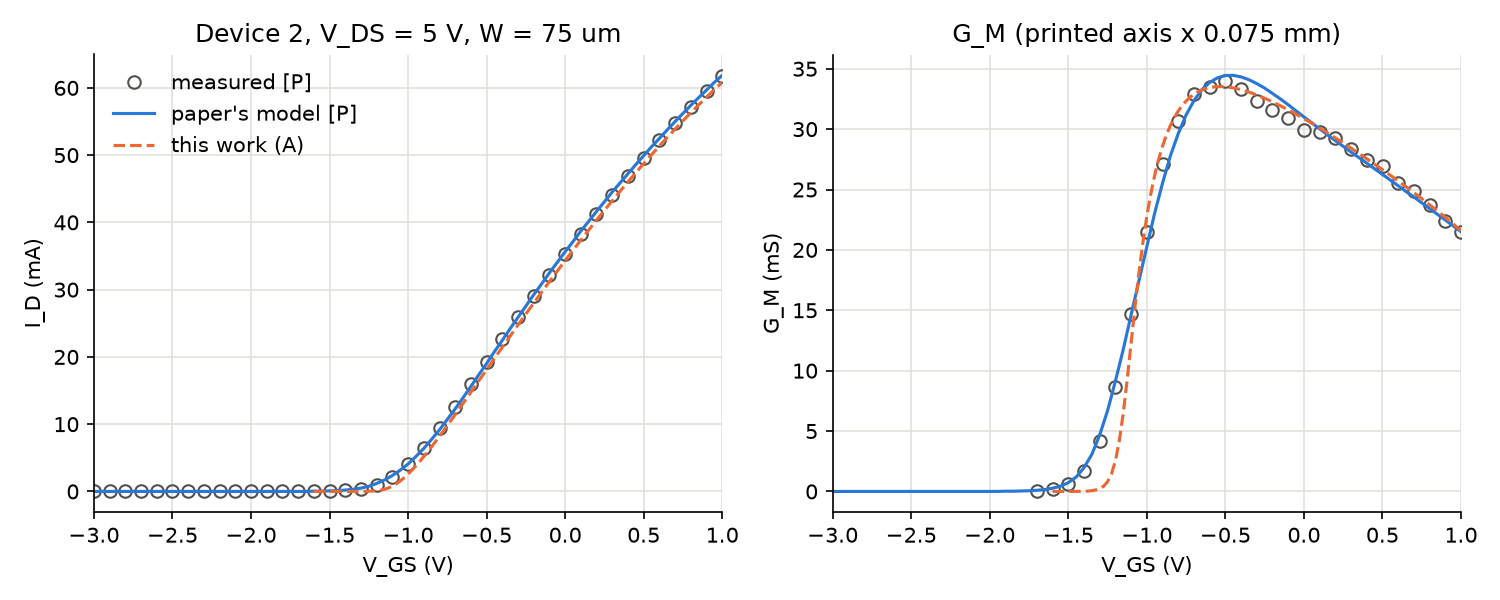
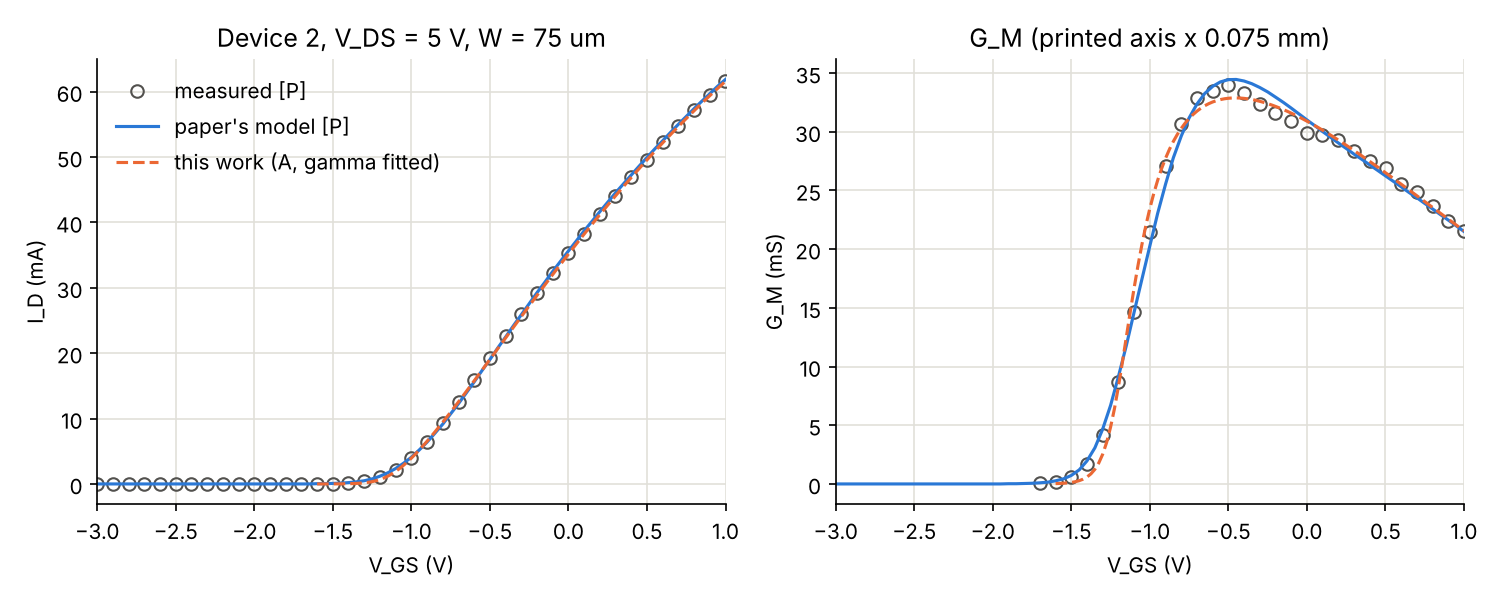
Step 8c: gamma of Eq. (9) in the numerical charge (m = 2/(3 gamma)); Device 2 refit; README beta/delta

diff --git a/fit2.py b/fit2.py
@@ -1,7 +1,8 @@
 """
-fit2.py - Step 8b: fit Device 2 (short-channel PolFET) to the measured points of the paper's Fig. 6(b).
+fit2.py - Step 8b-c: fit Device 2 (short-channel PolFET) to the measured points of the paper's Fig. 6(b).
 Run:  GAN_DEVICE=2 python3 fit2.py        (device2.py supplies W, L, C_g'', V_OFF, mobility, access geometry)
-Same method and same five fitted parameters as Device 1 (fit.py, Step 5b); the paper gives no values for either device.
+Same method and the same five fitted parameters as Device 1 (fit.py, Step 5b), plus gamma of Eq. (9) (Step 8c, option 1,
+decided 2026-11-17): it sets the subthreshold slope of the numerical charge (gate.n_exact). The paper gives no values.
 Fitted data: Fig. 6(b) I_D and G_M at V_DS = 5 V [P]. Fig. 7(b) is used as a check, not fitted, because its V_GS
 labels are not printed (printed item 12): it is scored with both label sets of fig7b_measured.csv.
 Saves params_device2.json.
@@ -38,7 +39,8 @@ FREE = [("u0",    U0_ACC,         100e-4, 3000e-4, 0.05, "m^2/Vs", "U0, access m
         ("vsat0", cur.VSAT0,      2e4,    1e6,     1e5,  "m/s",    "V_SAT0 [P]"),
         ("th2",   cur.THETA_SAT2, 0.01,   2.0,     0.3,  "-",      "theta_SAT2 [P]"),
         ("delta", cur.DELTA_DS,   1.0,    10.0,    1.0,  "-",      "delta in V_DS,eff [P, no value]"),
-        ("beta",  2.0,            0.5,    20.0,    1.0,  "-",      "beta in access R [T Eq. 5.1, no value]")]
+        ("beta",  2.0,            0.5,    20.0,    1.0,  "-",      "beta in access R [T Eq. 5.1, no value]"),
+        ("gamma", 0.55,           0.2,    1.0,     0.1,  "-",      "gamma, Eq. (9) [P, no value]")]
 NAMES = [f[0] for f in FREE]
 FIXED = {"vsat_acc": 1.8e5,     # m/s [TCAD, GaN.par saturation velocity], as Device 1
          "mu_a": 0.0, "theta_sat": 0.0}          # as Device 1 (Step 5b)
@@ -96,24 +98,26 @@ if __name__ == "__main__":
     sol = run_fit(p0)
     print("fitted: rms I_D = {:.2f} mA, G_M = {:.2f} mS".format(*rms(sol.x)), f"  ({time.time() - t0:.0f} s)")
     print("paper's model line on the same points: rms I_D = {:.2f} mA, G_M = {:.2f} mS".format(*paper_rms()))
-    sol2 = run_fit([0.05, 3e5, 0.1, 6.0, 4.0])
+    sol2 = run_fit([0.05, 3e5, 0.1, 6.0, 4.0, 0.4])
     print()
     print(f"{'parameter':36s}{'start':>11s}{'fitted':>12s}{'other start':>14s}  unit")
     for (name, start, lo, hi, scale, unit, meaning), v, v2 in zip(FREE, sol.x, sol2.x):
         note = "  <- at its bound" if min(v - lo, hi - v) < 1e-3 * scale else ""
         print(f"{meaning:36s}{start:11.4g}{v:12.4g}{v2:14.4g}  {unit}{note}")
     Rs0, Rd0 = r_access(0.0, L_SG, u0=sol.x[0]), r_access(0.0, L_GD, u0=sol.x[0])
+    print(f"subthreshold slope from gamma: {1000 * np.log(10) * cur.PHIT / sol.x[5]:.0f} mV/dec")
     print(f"R_S0 = {Rs0:.2f} ohm ({Rs0 * W_MM:.2f} ohm.mm), R_D0 = {Rd0:.2f} ohm ({Rd0 * W_MM:.2f} ohm.mm)")
     print()
     print(f"Fig. 7(b) check ({len(out7)} points, not fitted): rms {rms_out(sol.x, 0):.2f} mA with V_GS = -1.6:0.2:1.0 V, "
           f"{rms_out(sol.x, 1):.2f} mA with V_GS from Fig. 6(b)")
     print()
     print(" V_GS   I_D model  measured (mA)    G_M model  measured (mS)")
-    for v in [-1.2, -0.8, -0.4, 0.0, 0.4, 0.8, 1.0]:
+    for v in [-1.4, -1.2, -1.0, -0.8, -0.4, 0.0, 0.4, 0.8, 1.0]:
         print(f"{v:5.1f} {model_id(sol.x, v, 5.0):9.2f} {np.interp(v, id6[:, 0], id6[:, 1]):9.2f}"
               f"      {model_gm(sol.x, v):9.2f} {np.interp(v, gm6[:, 0], gm6[:, 1]):9.2f}")
-    result = {"source": "fit2.py, Step 8b: least squares to the measured points of Nazir et al. 2025 Fig. 6(b)",
+    result = {"source": "fit2.py, Step 8c: least squares to the measured points of Nazir et al. 2025 Fig. 6(b)",
               "fitted [CALIBRATE]": dict(zip(NAMES, map(float, sol.x))),
+              "gamma_placement": "m = 2/(3 gamma) on phi_t eta_F in the gate line of the numerical charge [DEVIATION, Step 8c]",
               "fixed": {**FIXED, "v_off": d2.V_OFF, "mu_lf": d2.MU_LF, "th1": cur.THETA_SAT1, "n_max": cur.N_MAX,
                         "mu_b": cur.MU_B, "n_acc_cm2": N_ACC, "l_sg": L_SG, "l_gd": L_GD, "cg_form": "eps/(2d+t) [P]"},
               "rms": {"fig6b_ID_mA": float(rms(sol.x)[0]), "fig6b_gM_mS": float(rms(sol.x)[1]),

diff --git a/current.py b/current.py
@@ -44,24 +44,28 @@ CHARGE = "exact"                # "exact": numerical solution of the two charge 
 V_TABLE = np.arange(-4.5, 4.0 + 1e-9, 0.01)   # V_GS grid for the exact-n table, 10 mV steps
 
 
+GAMMA_EX = getattr(d1, "GAMMA_EX", None)   # Step 8c: gamma of Eq. (9) in the numerical charge; None = m 1 (Device 1)
+
+
 @lru_cache(maxsize=8)
-def n_exact_spline(v_off):
+def n_exact_spline(v_off, gamma=None):
     """Solve the exact n once on the V_TABLE grid, then join the points with a quintic spline of log(n)
     [de Boor 1978]. Quintic (not cubic) keeps the third derivative continuous, which G_M3 needs.
     lru_cache keeps the result, so the slow root finding runs only once for each V_OFF."""
-    logn = np.log([n_exact(v, v_off, d1.U)[0] for v in V_TABLE])
+    logn = np.log([n_exact(v, v_off, d1.U, gamma)[0] for v in V_TABLE])
     return make_interp_spline(V_TABLE, logn, k=5)
 
 
-def n_channel(V_GS, v_off=V_OFF_TCADP, charge=CHARGE):
+def n_channel(V_GS, v_off=V_OFF_TCADP, charge=CHARGE, gamma=GAMMA_EX):
     """Channel sheet density in cm^-2 that feeds Eq. (17)."""
     if charge == "exact":
-        return np.exp(n_exact_spline(float(v_off))(V_GS))
+        return np.exp(n_exact_spline(float(v_off), None if gamma is None else float(gamma))(V_GS))
     return np.maximum(n_total(V_GS, v_off=v_off, u=d1.U), N_FLOOR)
 
 
 def bias_state(V_GS, V_DS, v_off=V_OFF_TCADP, printed=False, charge=CHARGE, mu_lf=MU_LF, mu_a=MU_A, mu_b=MU_B,
-               theta_sat=THETA_SAT, vsat0=VSAT0, th1=THETA_SAT1, th2=THETA_SAT2, n_max=N_MAX, delta=DELTA_DS):
+               theta_sat=THETA_SAT, vsat0=VSAT0, th1=THETA_SAT1, th2=THETA_SAT2, n_max=N_MAX, delta=DELTA_DS,
+               gamma=GAMMA_EX):
     """Every intermediate quantity of Eq. (17) at one intrinsic bias, as a dict:
     Vg0, Vq (= q n / C_g''), EF, Vdsat, Vdeff, Vm in V; n in cm^-2; mu_eff in m^2/Vs; I in A.
     printed=True  : V_DSAT uses V_g0, exactly as printed (breaks below V_OFF, where V_g0 < 0)
@@ -69,7 +73,7 @@ def bias_state(V_GS, V_DS, v_off=V_OFF_TCADP, printed=False, charge=CHARGE, mu_l
     The channel potentials of Sec. II-C are V_ch,s = E_F and V_ch,d = E_F + V_DS,eff: then
     V_m = (V_ch,s + V_ch,d)/2 is the same V_m as in Eq. (17) [P, both define V_m] (used by terminal_charges.py)."""
     Vg0 = V_GS - v_off
-    n = n_channel(V_GS, v_off, charge)                            # cm^-2
+    n = n_channel(V_GS, v_off, charge, gamma)                     # cm^-2
     Vq = n / d1.U                                                 # V, q n / C_g'': channel charge as a voltage
     EF = Vg0 - Vq                                                 # V, E_F = V_g0 - q n / C_g''  [P]
 

diff --git a/gate.py b/gate.py
@@ -21,13 +21,18 @@ CG = EPS_R * EPS0 / (2 * D_ALGAN + T_GRADE)      # F/cm^2, C_g'' = eps / (2 d_Al
 U = CG / Q                                        # cm^-2 per V: sheet charge per volt of gate drive
 
 
-def n_exact(V_GS, v_off=V_OFF, u=U):
+def n_exact(V_GS, v_off=V_OFF, u=U, gamma=None):
     """Exact sheet density at gate voltage V_GS: solve
-    (N_C F_1/2(eta_F))^(2/3) = (C_g''/q) (V_g0 - phi_t eta_F),  V_g0 = V_GS - V_OFF   [P, Eq. (8) + n^(2/3) transformation]
-    for eta_F by root finding. Returns (n, eta_F)."""
+    (N_C F_1/2(eta_F))^(2/3) = (C_g''/q) (V_g0 - m phi_t eta_F),  V_g0 = V_GS - V_OFF   [P, Eq. (8) + n^(2/3) transformation]
+    for eta_F by root finding. Returns (n, eta_F).
+    gamma (Step 8c, 2026-11-17): the paper's subthreshold parameter of Eq. (9), n_sub = N_C'' exp(gamma V_g0 / phi_t).
+    Deep below threshold this equation gives n = N_C^(2/3) exp((2/3) V_g0 / (m phi_t)), so m = 2/(3 gamma) makes the
+    numerical solution follow Eq. (9) there [DEVIATION: where gamma enters is ours; the paper defines gamma only in the
+    closed form]. gamma = None or 2/3 gives m = 1: the solution used up to Step 8b, unchanged."""
+    m = 1.0 if gamma is None else 2.0 / (3.0 * gamma)
     Vg0 = V_GS - v_off
-    g = lambda eta: sheet_exact(eta) - u * (Vg0 - PHIT * eta)    # zero at the solution
-    eta = brentq(g, -200.0, Vg0 / PHIT + 1e-9)                   # g < 0 at -200; g > 0 just past where the gate line hits zero
+    g = lambda eta: sheet_exact(eta) - u * (Vg0 - m * PHIT * eta)   # zero at the solution
+    eta = brentq(g, -400.0, Vg0 / (m * PHIT) + 1e-9)                 # g < 0 deep below; g > 0 just past where the gate line hits zero
     return sheet_exact(eta), eta
 
 

diff --git a/plot_fig6b.py b/plot_fig6b.py
@@ -11,7 +11,7 @@ li, lg = f2.load("fig6b_paper_model_ID"), f2.load("fig6b_paper_model_gm")
 fig, ax = plt.subplots(1, 2, figsize=(10, 4))
 ax[0].plot(mi[:, 0], mi[:, 1], "o", mfc="none", c="#52514e", label="measured [P]")
 ax[0].plot(li[:, 0], li[:, 1], "-", c="#2a78d6", label="paper's model [P]")
-ax[0].plot(V, I, "--", c="#eb6834", label="this work (A)")
+ax[0].plot(V, I, "--", c="#eb6834", label="this work (A, gamma fitted)")
 ax[0].set(xlabel="V_GS (V)", ylabel="I_D (mA)", xlim=(-3, 1), title="Device 2, V_DS = 5 V, W = 75 um")
 ax[1].plot(mg[:, 0], mg[:, 1] * 0.075, "o", mfc="none", c="#52514e")
 ax[1].plot(lg[:, 0], lg[:, 1] * 0.075, "-", c="#2a78d6")

diff --git a/README.md b/README.md
@@ -170,11 +170,12 @@ Five parameters fitted [CALIBRATE]; everything else fixed from the paper, the ci
 | $U_0$ | 886 cm²/V·s | | $C_g''$ | $\varepsilon/(2d+t)$ | printed form, kept for fidelity |
 | $V_{SAT0}$ | 9.74×10⁴ m/s | | low-field mobility | 1380 cm²/V·s | our TCAD |
 | $\theta_{SAT2}$ | 0.957 | | access density | 3.6×10¹² cm⁻² | our TCAD |
-| $\beta$, $\delta$ | 18.5, 5.0 | | $L_{SG}$, $L_{GD}$ | 0.6 µm | the paper's Fig. 5(b) |
+| $\beta$, $\delta$ | 18.4, 3.4–5.4 | | $L_{SG}$, $L_{GD}$ | 0.6 µm | the paper's Fig. 5(b) |
 
 > [!TIP]
 > With $V_{OFF}$ left free, the fit lands at −1.06 V, 50 mV from the TCAD value, which is a useful independent check of the
 > TCAD route. $\gamma$ is an effective value at $V_{DS}$ = 5 V: the model has no drain-induced barrier lowering, so $\gamma$ absorbs it.
+> $\delta$ is weakly set by data at $V_{DS}$ = 5 V (deep saturation): different starts and machines give 3.4 to 5.4 with the same rms.
 
 ### The charge model against the paper's Fig. 4
 
